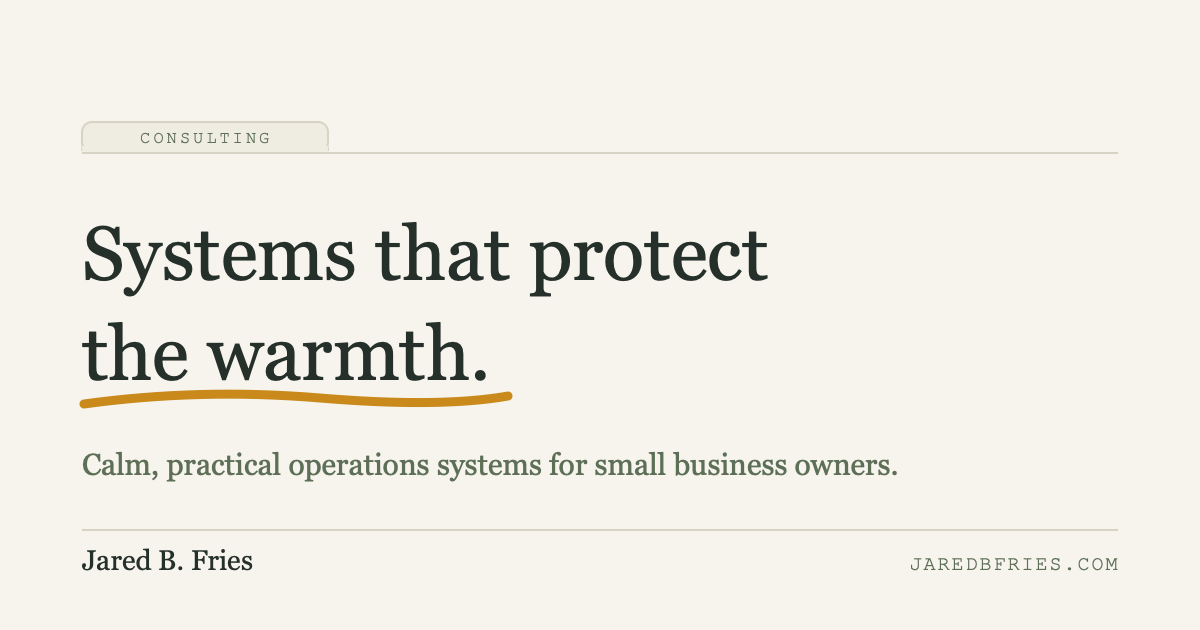
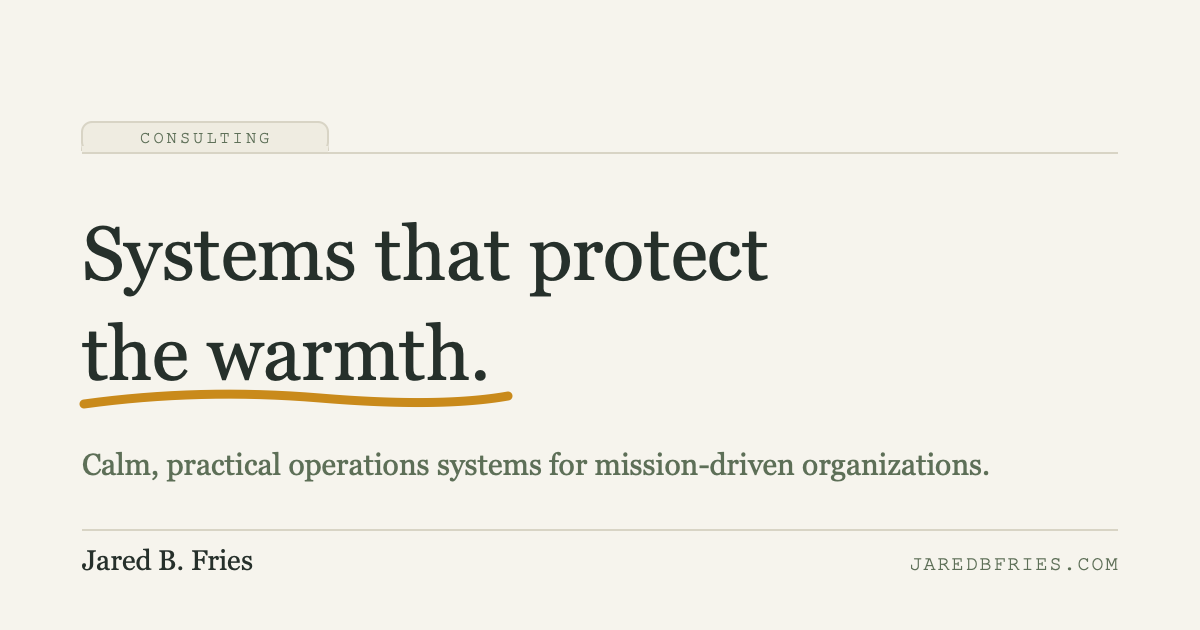
Refocus copy on mission-driven organizations

Changed region(s): [[0.4933, 0.7238, 0.8325, 0.754]]

diff --git a/index.html b/index.html
@@ -4,9 +4,9 @@
 <meta charset="UTF-8">
 <meta name="viewport" content="width=device-width, initial-scale=1.0">
 <title>Systems that protect the warmth | Jared B. Fries Consulting</title>
-<meta name="description" content="Jared B. Fries helps small business owners replace duct-taped processes and expensive software subscriptions with calm, practical systems that run quietly in the background.">
+<meta name="description" content="Jared B. Fries helps mission-driven organizations replace duct-taped processes and expensive software subscriptions with calm, practical systems that run quietly in the background.">
 <meta property="og:title" content="Systems that protect the warmth | Jared B. Fries Consulting">
-<meta property="og:description" content="Calm, practical operations systems for small business owners and mission-driven organizations.">
+<meta property="og:description" content="Calm, practical operations systems for mission-driven organizations.">
 <meta property="og:type" content="website">
 <meta property="og:url" content="https://jaredbfries.com/">
 <meta property="og:site_name" content="Jared B. Fries Consulting">
@@ -226,7 +226,7 @@
     <div class="hero">
       <p class="kicker">Systems that protect the warmth</p>
       <h1>Great at your craft. Buried in <span class="hl">everything else<svg viewBox="0 0 100 10" preserveAspectRatio="none" aria-hidden="true"><path d="M2 7 Q 25 2, 50 6 T 98 5"/></svg></span>.</h1>
-      <p class="lede">I'm Jared. I help small business owners replace duct-taped processes and expensive software subscriptions with systems that run quietly in the background — so the day feels calm and you get back to the work you love.</p>
+      <p class="lede">I'm Jared. I help mission-driven organizations replace duct-taped processes and expensive software subscriptions with systems that run quietly in the background — so the day feels calm and you get back to the work you love.</p>
       <a class="cta" href="#contact">Tell me about your mess</a>
     </div>
 
@@ -317,9 +317,9 @@
         <img class="portrait" src="headshot.jpg" alt="Jared B. Fries" style="object-fit:cover;object-position:top;width:100%">
         <div>
           <h3>Operator. Educator. System builder.</h3>
-          <p>Jared B. Fries has spent 15+ years building the systems that help organizations grow — across classrooms, school leadership, district administration, and small business operations.</p>
+          <p>Jared B. Fries has spent 15+ years building the systems that help organizations grow — across classrooms, school leadership, district administration, and mission-driven operations.</p>
           <p>His approach pairs the human side of change with the discipline of durable systems, shaped by an M.Ed. from Harvard University and a B.A. from the University of Pennsylvania.</p>
-          <p>He brings that full-table perspective to small business owners facing operational complexity, process friction, and growth that can no longer run on heroic effort.</p>
+          <p>He brings that full-table perspective to mission-driven organizations facing operational complexity, process friction, and growth that can no longer run on heroic effort.</p>
           <p class="grove">Summers, you'll find him working the gates at Stern Grove Festival, helping make live music free and open to all of San Francisco.</p>
         </div>
       </div>
